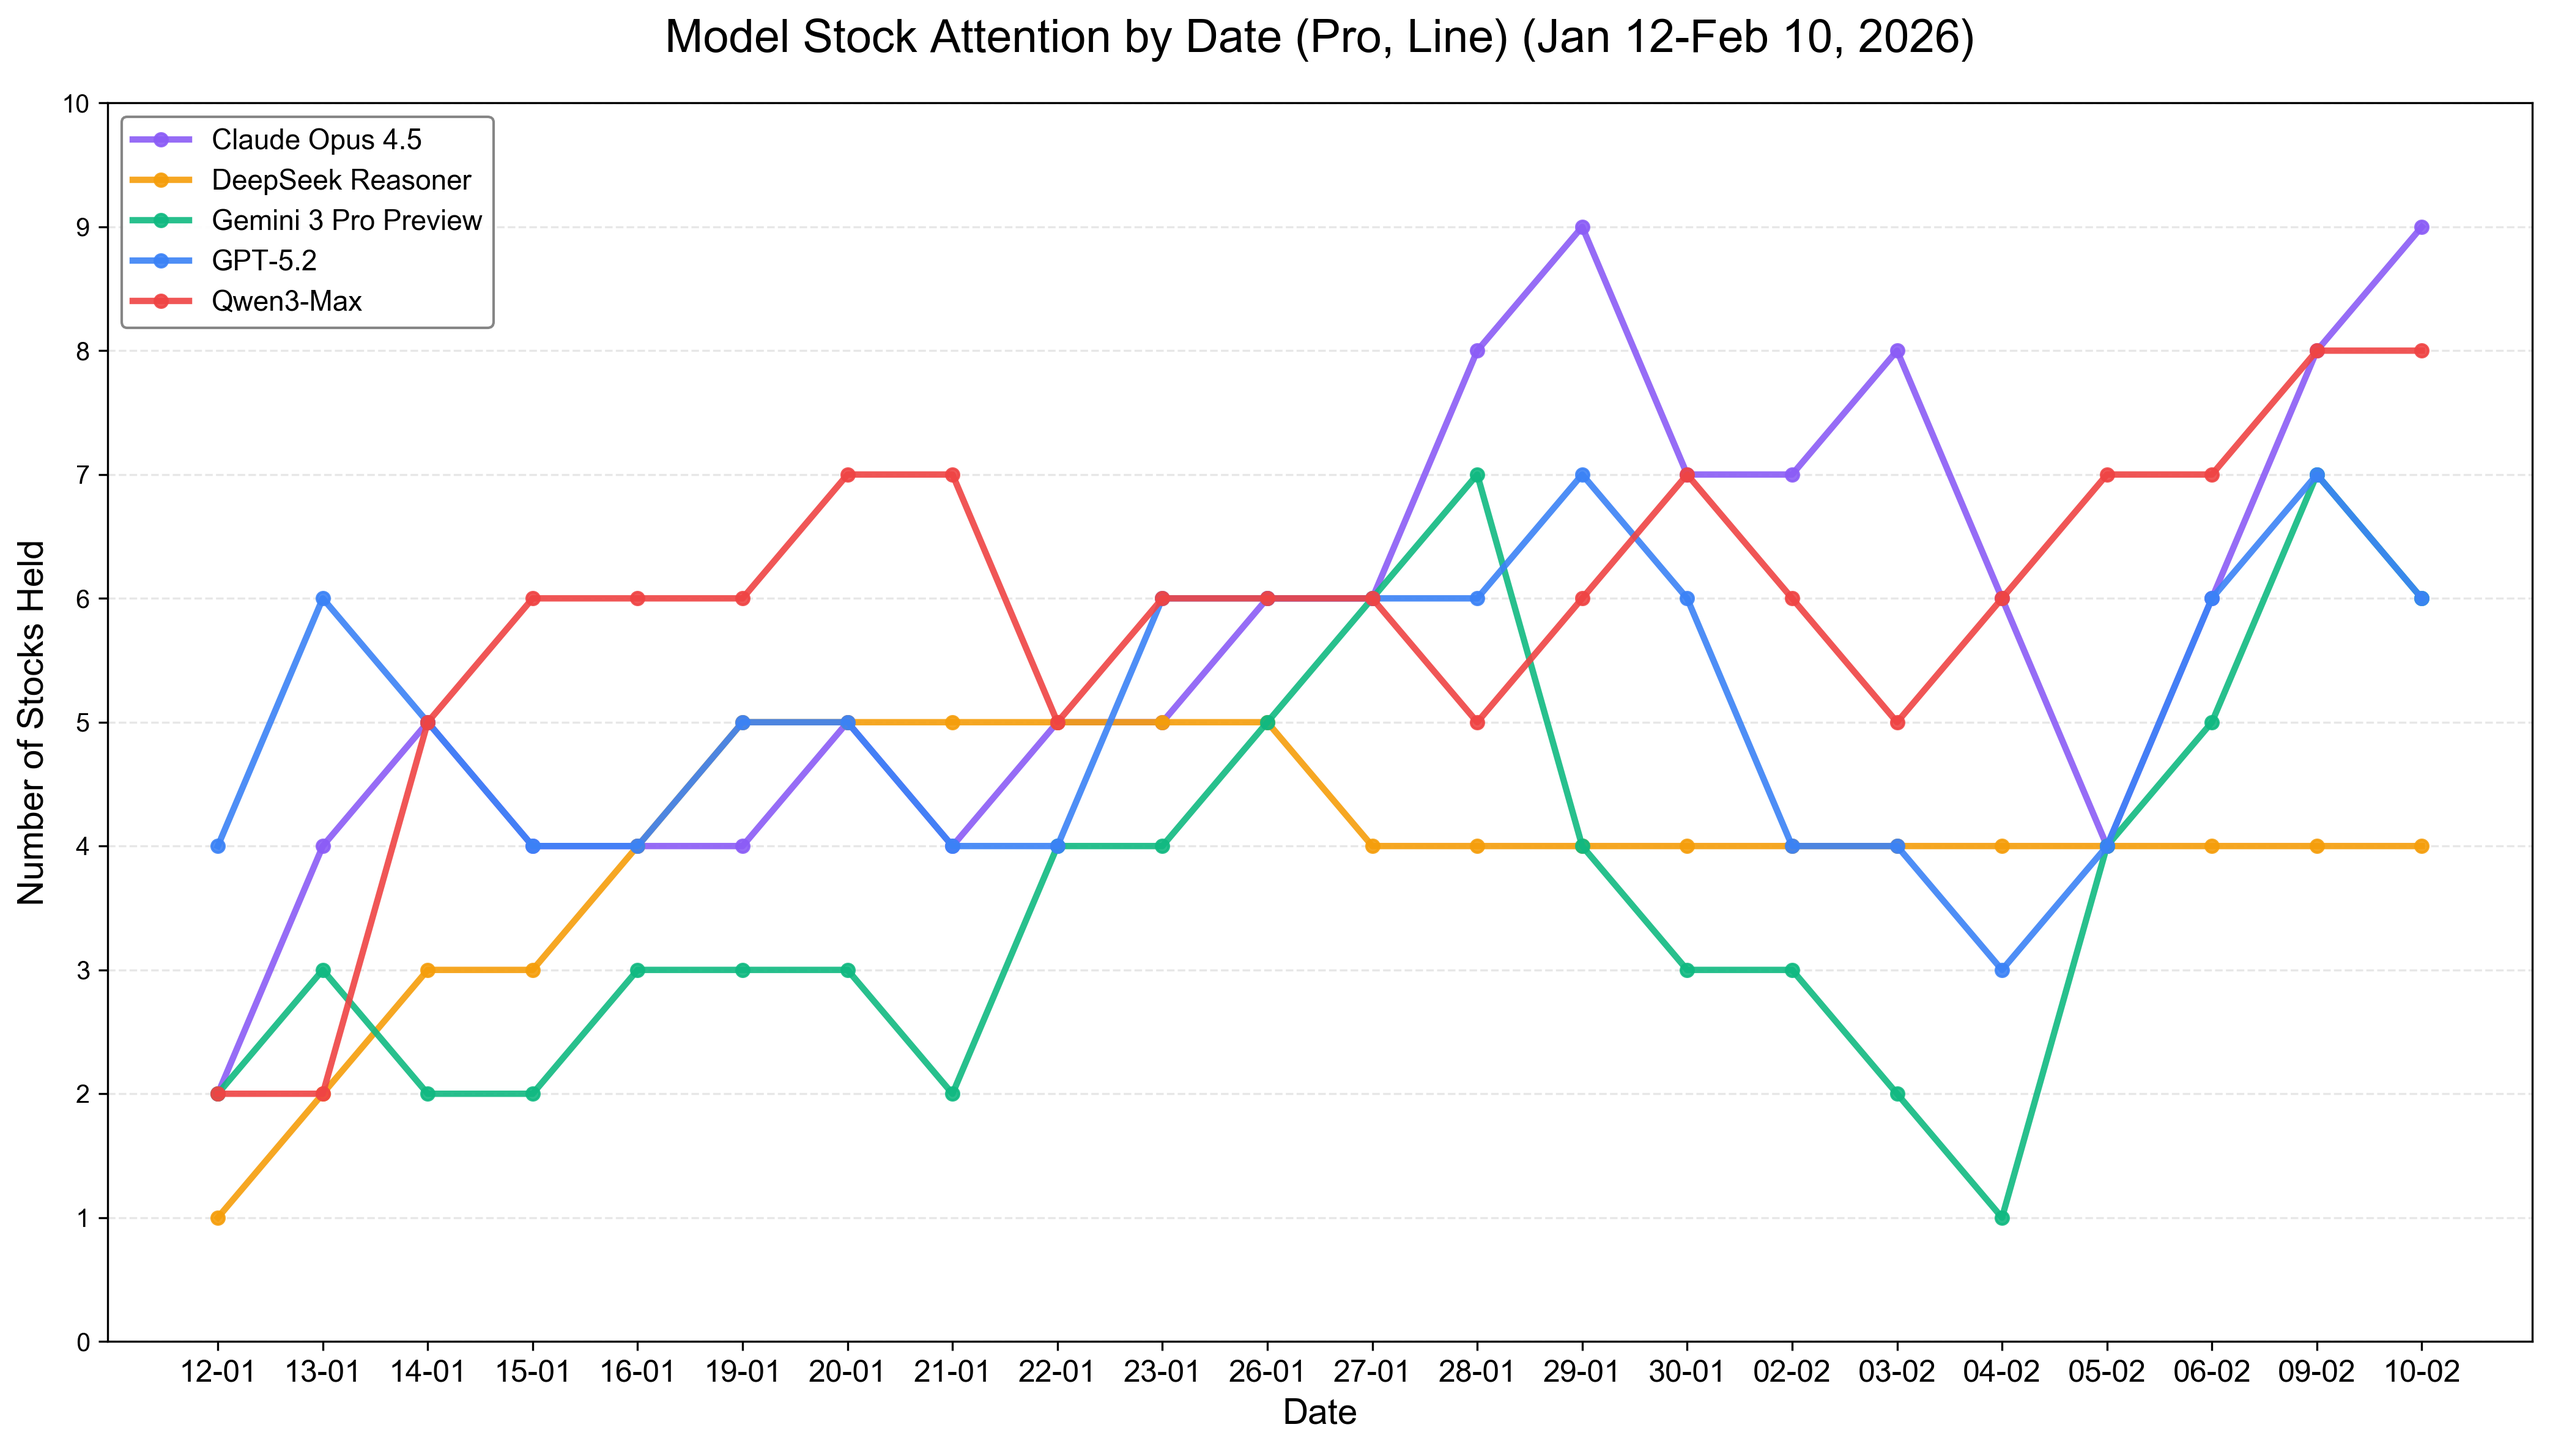
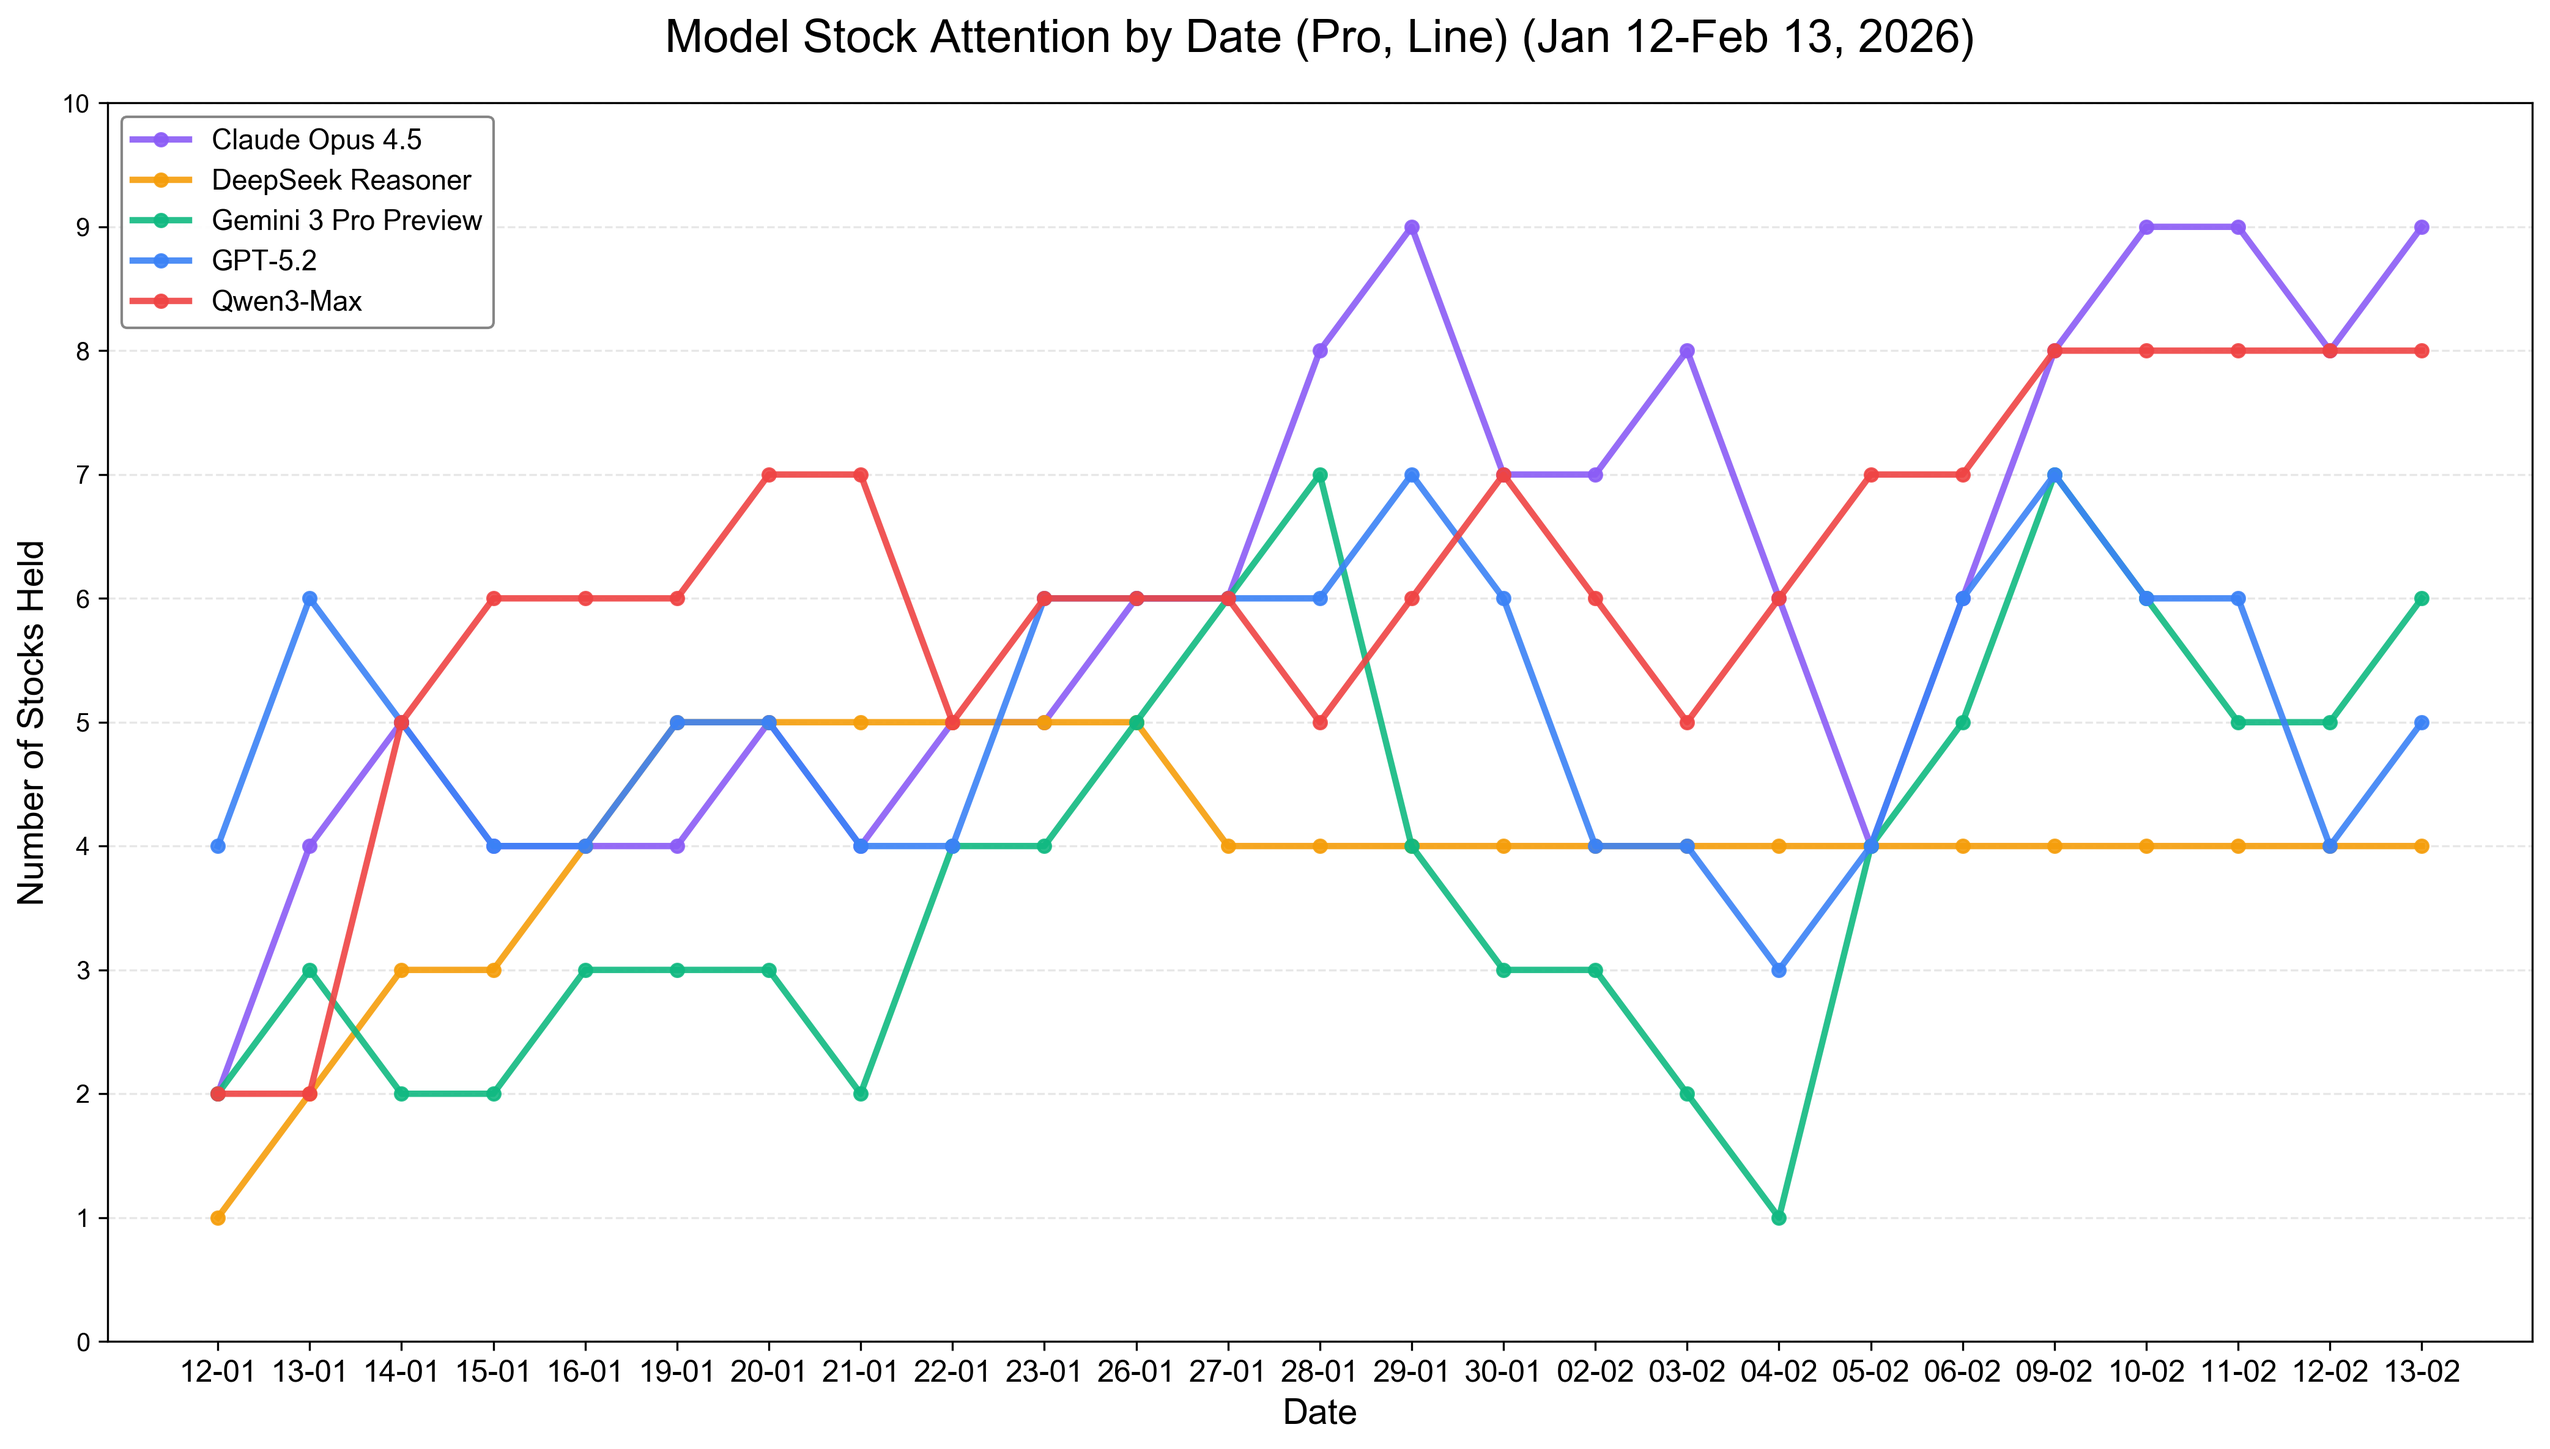
2.13

diff --git a/README.md b/README.md
@@ -22,9 +22,9 @@
 
 ## 📊 Performance Comparison Results
 
-**Updated: February 10, 2026**
+**Updated: February 13, 2026**
 
-This section showcases comprehensive performance comparisons across Lite and Pro model versions, including benchmark analyses and portfolio dynamics during the trading period (January 12-February 10, 2026).
+This section showcases comprehensive performance comparisons across Lite and Pro model versions, including benchmark analyses and portfolio dynamics during the trading period (January 12-February 13, 2026).
 
 ### Dual Model Version Strategy
 
@@ -140,18 +140,18 @@ Complete performance statistics including:
 
 | Model | Sharpe Ratio (Unrealized) | Realized PnL % | Unrealized PnL % | Max Drawdown % (Unrealized) |
 |------|---------------------------|---------------|-----------------|----------------------------|
-| Claude Haiku 4.5 | -1.7186 | -7.07% | -10.05% | 12.15% |
-| DeepSeek Chat | -1.2102 | -1.20% | -10.97% | 15.02% |
-| GPT-5.1 | 1.2038 | 8.74% | 9.10% | 3.67% |
-| Qwen3-235b | -0.9068 | -7.16% | -6.78% | 10.22% |
-| Gemini 2.5 Flash | -0.4787 | -4.57% | -4.25% | 7.22% |
-| Claude Opus 4.5 | 0.2587 | 0.33% | 1.81% | 5.74% |
-| DeepSeek Reasoner | -1.5997 | -0.22% | -13.95% | 17.21% |
-| GPT-5.2 | 0.2716 | 1.07% | 1.77% | 6.38% |
-| Qwen3-Max | -1.1766 | -8.37% | -8.88% | 12.83% |
-| Gemini 3 Pro Preview | -1.8505 | -10.37% | -9.67% | 11.38% |
-| Equal-Weight ETF (10 Stocks) | -1.7547 | -17.24% | -17.24% | 21.41% |
-| STAR 50 Index (SSE 688) | 0.1247 | 0.69% | 0.69% | 8.25% |
+| Claude Haiku 4.5 | -1.9869 | -6.91% | -11.58% | 12.15% |
+| DeepSeek Chat | -0.9880 | -1.20% | -9.66% | 15.02% |
+| GPT-5.1 | 1.0549 | 8.74% | 7.97% | 3.67% |
+| Qwen3-235b | -1.4115 | -9.74% | -10.56% | 10.86% |
+| Gemini 2.5 Flash | -0.8027 | -4.83% | -6.84% | 7.61% |
+| Claude Opus 4.5 | 0.1037 | 0.91% | 0.52% | 5.74% |
+| DeepSeek Reasoner | -1.5817 | -7.37% | -14.40% | 17.21% |
+| GPT-5.2 | 0.1401 | 0.98% | 0.76% | 6.38% |
+| Qwen3-Max | -1.3241 | -9.97% | -10.08% | 12.83% |
+| Gemini 3 Pro Preview | -1.8010 | -9.91% | -9.82% | 11.38% |
+| Equal-Weight ETF (10 Stocks) | -1.6485 | -16.88% | -16.88% | 21.41% |
+| STAR 50 Index (SSE 688) | 0.1868 | 1.27% | 1.27% | 8.25% |
 
 Full report available in:
 📄 [Performance Summary Report](experiments/visualizations/performance_summary.md)
@@ -541,6 +541,8 @@ Comprehensive documentation is available in the [documentation/](documentation) 
 
 
 ## 🧪 Experiments & Results
+
+**Update (February 13, 2026):** Our experiments have concluded. The results, charts, and reports in this section are final for the completed evaluation period.
 
 ### Trading Configuration
 

diff --git a/experiments/visualizations/model_metrics_table.md b/experiments/visualizations/model_metrics_table.md
@@ -2,15 +2,15 @@
 
 | Model | Sharpe Ratio (Unrealized) | Realized PnL % | Unrealized PnL % | Max Drawdown % (Unrealized) |
 |------|---------------------------|---------------|-----------------|----------------------------|
-| Claude Haiku 4.5 | -1.7186 | -7.07% | -10.05% | 12.15% |
-| DeepSeek Chat | -1.2102 | -1.20% | -10.97% | 15.02% |
-| GPT-5.1 | 1.2038 | 8.74% | 9.10% | 3.67% |
-| Qwen3-235b | -0.9068 | -7.16% | -6.78% | 10.22% |
-| Gemini 2.5 Flash | -0.4787 | -4.57% | -4.25% | 7.22% |
-| Claude Opus 4.5 | 0.2587 | 0.33% | 1.81% | 5.74% |
-| DeepSeek Reasoner | -1.5997 | -0.22% | -13.95% | 17.21% |
-| GPT-5.2 | 0.2716 | 1.07% | 1.77% | 6.38% |
-| Qwen3-Max | -1.1766 | -8.37% | -8.88% | 12.83% |
-| Gemini 3 Pro Preview | -1.8505 | -10.37% | -9.67% | 11.38% |
-| Equal-Weight ETF (10 Stocks) | -1.7547 | -17.24% | -17.24% | 21.41% |
-| STAR 50 Index (SSE 688) | 0.1247 | 0.69% | 0.69% | 8.25% |
+| Claude Haiku 4.5 | -1.9869 | -6.91% | -11.58% | 12.15% |
+| DeepSeek Chat | -0.9880 | -1.20% | -9.66% | 15.02% |
+| GPT-5.1 | 1.0549 | 8.74% | 7.97% | 3.67% |
+| Qwen3-235b | -1.4115 | -9.74% | -10.56% | 10.86% |
+| Gemini 2.5 Flash | -0.8027 | -4.83% | -6.84% | 7.61% |
+| Claude Opus 4.5 | 0.1037 | 0.91% | 0.52% | 5.74% |
+| DeepSeek Reasoner | -1.5817 | -7.37% | -14.40% | 17.21% |
+| GPT-5.2 | 0.1401 | 0.98% | 0.76% | 6.38% |
+| Qwen3-Max | -1.3241 | -9.97% | -10.08% | 12.83% |
+| Gemini 3 Pro Preview | -1.8010 | -9.91% | -9.82% | 11.38% |
+| Equal-Weight ETF (10 Stocks) | -1.6485 | -16.88% | -16.88% | 21.41% |
+| STAR 50 Index (SSE 688) | 0.1868 | 1.27% | 1.27% | 8.25% |

diff --git a/experiments/visualizations/performance_summary.md b/experiments/visualizations/performance_summary.md
@@ -2,8 +2,8 @@
 
 | Model | Latest Return | Max Return | Min Return | Volatility |
 |-------|---------------|------------|------------|------------|
-| Claude Haiku 4.5 | -7.07% | 0.23% | -7.88% | 2.12% |
-| DeepSeek Chat | -1.20% | 0.12% | -2.35% | 0.65% |
-| Gemini 2.5 Flash | -4.57% | 0.99% | -6.45% | 2.05% |
-| GPT-5.1 | 8.74% | 8.76% | -0.02% | 4.35% |
-| Qwen3-235b | -7.16% | -0.01% | -7.16% | 2.45% |
+| Claude Haiku 4.5 | -6.91% | 0.23% | -7.88% | 2.22% |
+| DeepSeek Chat | -1.20% | 0.12% | -2.35% | 0.61% |
+| Gemini 2.5 Flash | -4.83% | 0.99% | -6.45% | 2.07% |
+| GPT-5.1 | 8.74% | 8.76% | -0.02% | 4.27% |
+| Qwen3-235b | -9.74% | -0.01% | -9.74% | 2.78% |
